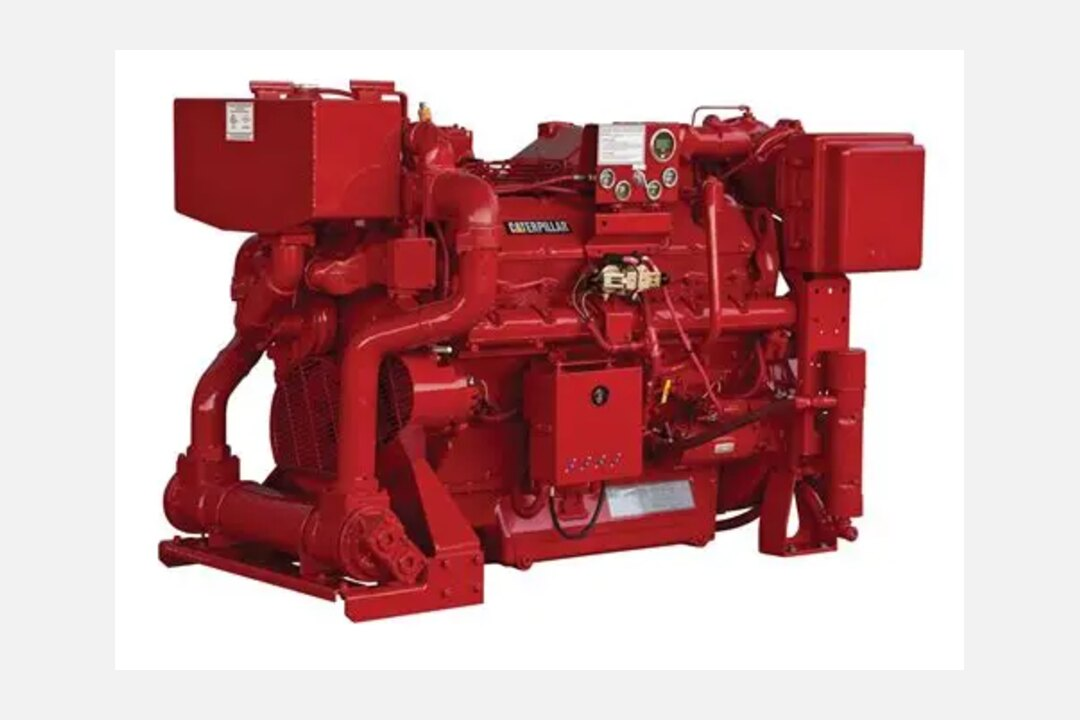
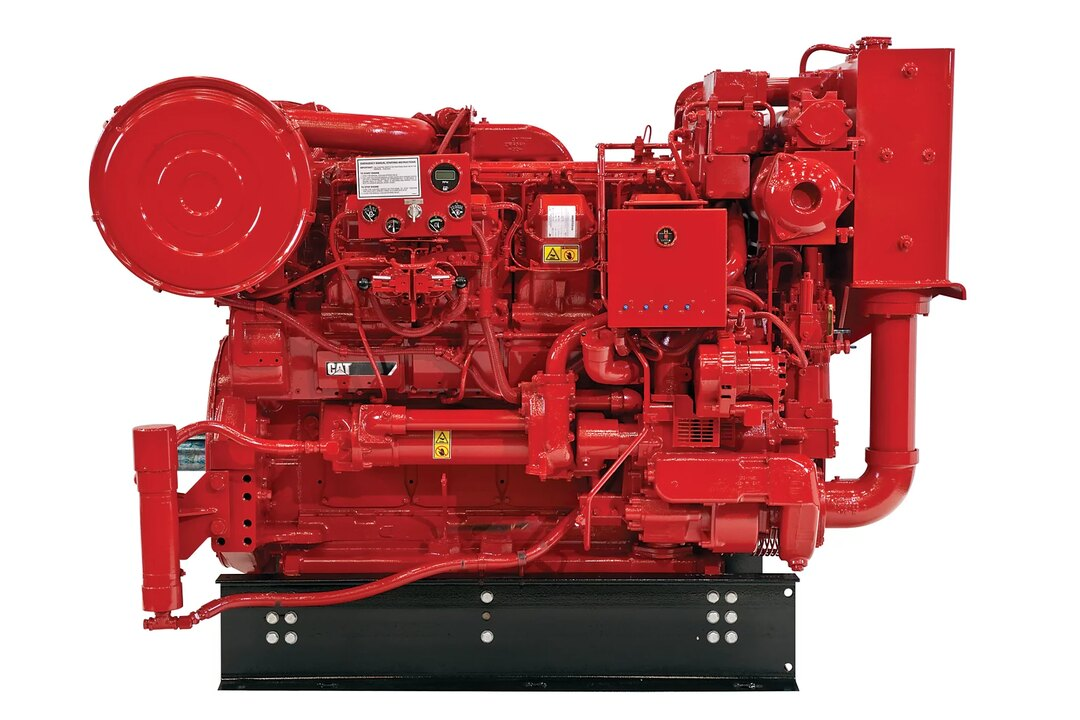
메인 소방펌프 카드 검정 헤더로 복귀·이미지 교체, 상세 Hero에 엔진 이미지 배치
Claude-Session: https://claude.ai/code/session_013cBRUE7S4ZWkrNrX83ZkcT

diff --git a/services/fire-pump/index.html b/services/fire-pump/index.html
@@ -308,6 +308,11 @@ table, td, th, code, pre { word-break: normal; }
   .fault-section .svc-card .sc-num { background: var(--fp-red); }
   /* 사진 왼쪽 라인 포인트 제거 */
   .photo-row img { border-left: none; }
+  /* Hero 2단 (텍스트 + 엔진 이미지) */
+  .hero-grid { display: grid; grid-template-columns: 1fr 440px; gap: 2.6rem; align-items: center; }
+  .hero-copy p.lead { margin-bottom: 0; }
+  .hero-visual img { width: 100%; height: auto; display: block; border-radius: 8px; background: #fff; box-shadow: 0 14px 40px rgba(0,0,0,0.38); }
+  @media (max-width: 860px) { .hero-grid { grid-template-columns: 1fr; gap: 1.8rem; } .hero-visual { max-width: 460px; } }
 </style>
 </head>
 <body>
@@ -329,13 +334,20 @@ table, td, th, code, pre { word-break: normal; }
 <section class="hero">
   <div class="hero-stripe"></div>
   <div class="hero-inner">
-    <span class="hero-label">FIRE PUMP ENGINE</span>
-    <h1>소방펌프 디젤엔진<br><em>공급 · 정비 · 긴급 대응</em></h1>
-    <p class="lead">
-      정전 등 상용전원이 끊긴 상황에서도 소화수 공급은 멈춰선 안 됩니다.
-      ㈜삼선엔지니어링은 CAT 공인 딜러로서 <strong>소방펌프 구동용 디젤엔진</strong>의
-      신규 공급부터 정비·부품·긴급 대응까지, 비상 소화설비의 동력원을 책임집니다.
-    </p>
+    <div class="hero-grid">
+      <div class="hero-copy">
+        <span class="hero-label">FIRE PUMP ENGINE</span>
+        <h1>소방펌프 디젤엔진<br><em>공급 · 정비 · 긴급 대응</em></h1>
+        <p class="lead">
+          정전 등 상용전원이 끊긴 상황에서도 소화수 공급은 멈춰선 안 됩니다.
+          ㈜삼선엔지니어링은 CAT 공인 딜러로서 <strong>소방펌프 구동용 디젤엔진</strong>의
+          신규 공급부터 정비·부품·긴급 대응까지, 비상 소화설비의 동력원을 책임집니다.
+        </p>
+      </div>
+      <div class="hero-visual">
+        <img src="/img/fire-pump/hero-fire-pump.webp" alt="CAT 소방펌프 디젤엔진" width="1000" height="667">
+      </div>
+    </div>
   </div>
 </section>
 

diff --git a/src/services/fire-pump/index.html b/src/services/fire-pump/index.html
@@ -308,6 +308,11 @@ table, td, th, code, pre { word-break: normal; }
   .fault-section .svc-card .sc-num { background: var(--fp-red); }
   /* 사진 왼쪽 라인 포인트 제거 */
   .photo-row img { border-left: none; }
+  /* Hero 2단 (텍스트 + 엔진 이미지) */
+  .hero-grid { display: grid; grid-template-columns: 1fr 440px; gap: 2.6rem; align-items: center; }
+  .hero-copy p.lead { margin-bottom: 0; }
+  .hero-visual img { width: 100%; height: auto; display: block; border-radius: 8px; background: #fff; box-shadow: 0 14px 40px rgba(0,0,0,0.38); }
+  @media (max-width: 860px) { .hero-grid { grid-template-columns: 1fr; gap: 1.8rem; } .hero-visual { max-width: 460px; } }
 </style>
 </head>
 <body>
@@ -329,13 +334,20 @@ table, td, th, code, pre { word-break: normal; }
 <section class="hero">
   <div class="hero-stripe"></div>
   <div class="hero-inner">
-    <span class="hero-label">FIRE PUMP ENGINE</span>
-    <h1>소방펌프 디젤엔진<br><em>공급 · 정비 · 긴급 대응</em></h1>
-    <p class="lead">
-      정전 등 상용전원이 끊긴 상황에서도 소화수 공급은 멈춰선 안 됩니다.
-      ㈜삼선엔지니어링은 CAT 공인 딜러로서 <strong>소방펌프 구동용 디젤엔진</strong>의
-      신규 공급부터 정비·부품·긴급 대응까지, 비상 소화설비의 동력원을 책임집니다.
-    </p>
+    <div class="hero-grid">
+      <div class="hero-copy">
+        <span class="hero-label">FIRE PUMP ENGINE</span>
+        <h1>소방펌프 디젤엔진<br><em>공급 · 정비 · 긴급 대응</em></h1>
+        <p class="lead">
+          정전 등 상용전원이 끊긴 상황에서도 소화수 공급은 멈춰선 안 됩니다.
+          ㈜삼선엔지니어링은 CAT 공인 딜러로서 <strong>소방펌프 구동용 디젤엔진</strong>의
+          신규 공급부터 정비·부품·긴급 대응까지, 비상 소화설비의 동력원을 책임집니다.
+        </p>
+      </div>
+      <div class="hero-visual">
+        <img src="/img/fire-pump/hero-fire-pump.webp" alt="CAT 소방펌프 디젤엔진" width="1000" height="667">
+      </div>
+    </div>
   </div>
 </section>
 

diff --git a/index.html b/index.html
@@ -1869,7 +1869,7 @@ footer { background: var(--cat-black) !important; border-top: 4px solid var(--ca
         <div class="svc-tags"><span class="tag">예방정비</span><span class="tag">24h 긴급출동</span><span class="tag">이력관리</span></div>
         <a href="/services/maintenance/" class="svc-link" style="display:inline-flex;align-items:center;gap:6px;margin-top:1.2rem;font-size:13px;font-weight:700;color:var(--cat-black);letter-spacing:0.3px;text-decoration:none;border-bottom:2px solid var(--cat-yellow);padding-bottom:3px;transition:gap 0.18s;" onmouseover="this.style.gap='10px'" onmouseout="this.style.gap='6px'">정기점검 알아보기 →</a>
       </div>
-      <div class="svc-card svc-fire fade-up" data-d="2">        <div class="svc-img-wrap">
+      <div class="svc-card fade-up" data-d="2">        <div class="svc-img-wrap">
           <div class="svc-icon-header">
             <div class="svc-icon-box"><svg viewBox="0 0 24 24"><path d="M12 2.5s6 6.4 6 10.9a6 6 0 0 1-12 0C6 8.9 12 2.5 12 2.5z"/></svg></div>
             <div class="svc-icon-label">FIRE PUMP</div>

diff --git a/src/index.html b/src/index.html
@@ -1869,7 +1869,7 @@ footer { background: var(--cat-black) !important; border-top: 4px solid var(--ca
         <div class="svc-tags"><span class="tag">예방정비</span><span class="tag">24h 긴급출동</span><span class="tag">이력관리</span></div>
         <a href="/services/maintenance/" class="svc-link" style="display:inline-flex;align-items:center;gap:6px;margin-top:1.2rem;font-size:13px;font-weight:700;color:var(--cat-black);letter-spacing:0.3px;text-decoration:none;border-bottom:2px solid var(--cat-yellow);padding-bottom:3px;transition:gap 0.18s;" onmouseover="this.style.gap='10px'" onmouseout="this.style.gap='6px'">정기점검 알아보기 →</a>
       </div>
-      <div class="svc-card svc-fire fade-up" data-d="2">        <div class="svc-img-wrap">
+      <div class="svc-card fade-up" data-d="2">        <div class="svc-img-wrap">
           <div class="svc-icon-header">
             <div class="svc-icon-box"><svg viewBox="0 0 24 24"><path d="M12 2.5s6 6.4 6 10.9a6 6 0 0 1-12 0C6 8.9 12 2.5 12 2.5z"/></svg></div>
             <div class="svc-icon-label">FIRE PUMP</div>
